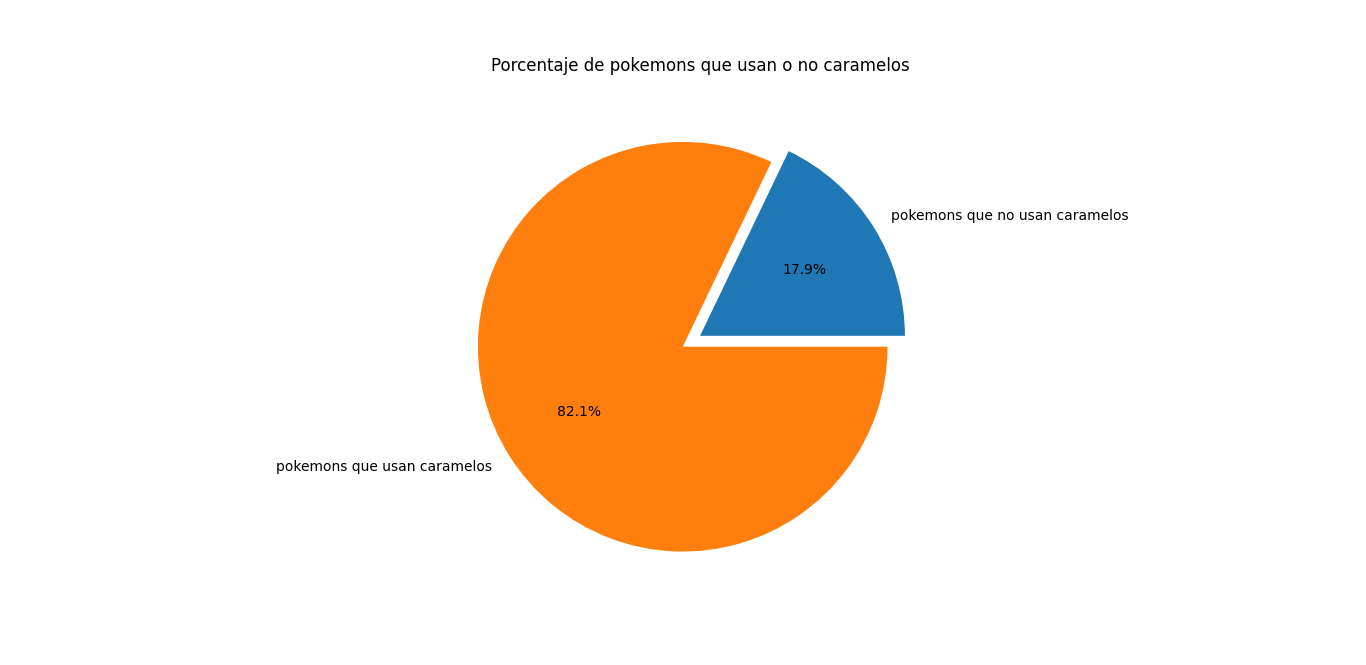
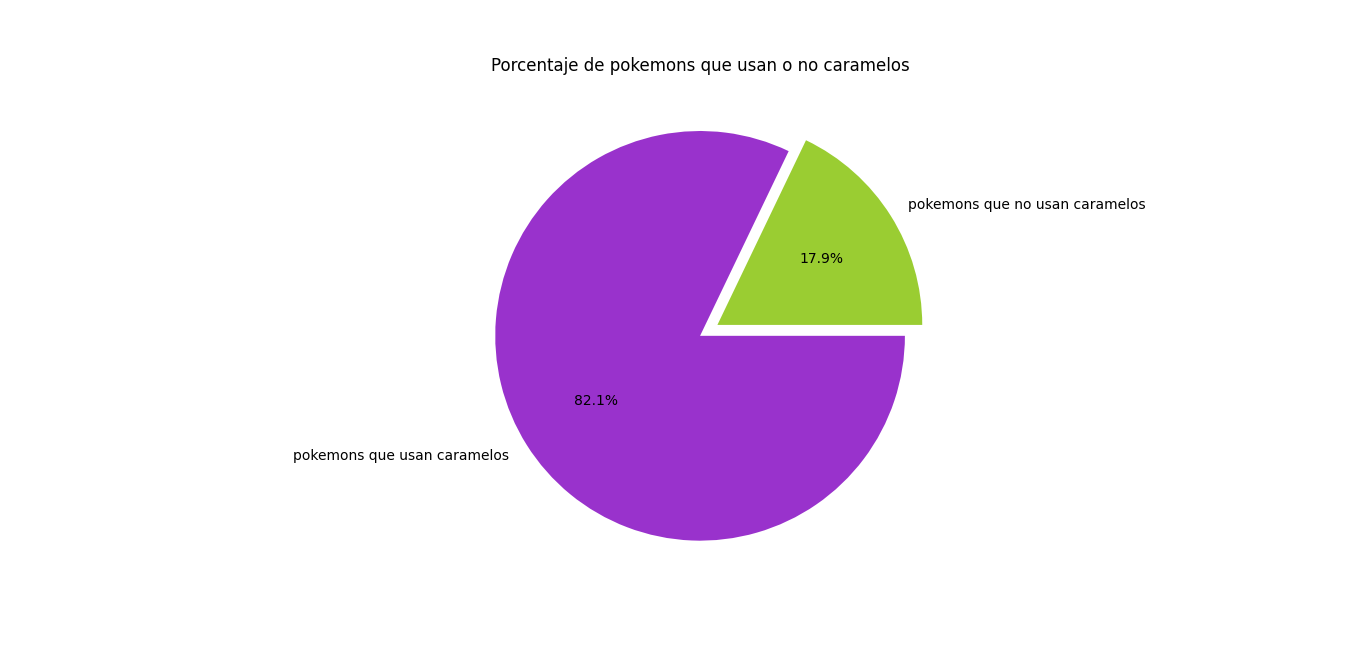
nuevos actualizaciones

Changed region(s): [[0.1845, 0.1805, 0.8302, 0.8421]]

diff --git a/visualización.py b/visualización.py
@@ -88,12 +88,12 @@ def ejercicio4():
     #print(caramelos)
     llaves=caramelos.keys()
     valores=caramelos.values()
+    colores=['yellowgreen','darkorchid']
     desfase=(0.1,0)
     #print(valores)
     #print()
-    #print(llaves)
-    
-    plt.pie(valores,labels=llaves, autopct="%1.1f%%",explode=desfase)
+    #print(llaves)+
+    plt.pie(valores,labels=llaves, autopct="%1.1f%%",explode=desfase,colors=colores)
     plt.title("Porcentaje de pokemons que usan o no caramelos")
     plt.show()
     
